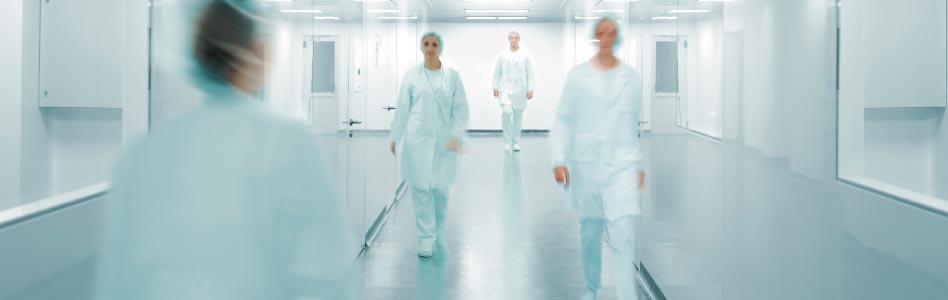
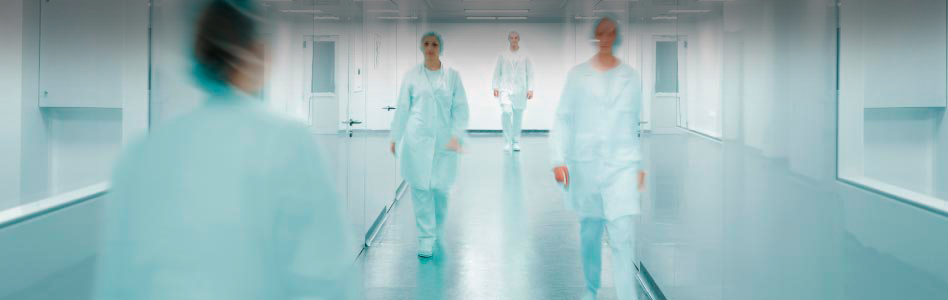
Cambios en el slider.
Se agrego logo de UFilo y cambio imagen de slider.

diff --git a/css/estilos.css b/css/estilos.css
@@ -26,6 +26,23 @@ body{
 
 
 
+/*--==================== ESTILOS ERNY EGOAVIL (INICIA)========================--*/
+
+
+
+#slider .logos-white{
+
+	width: 280px;
+	height: auto;
+	margin-bottom: 40px;
+	margin:0 auto 20px auto;
+}
+
+/*--==================== ESTILOS ERNY EGOAVIL (TERMINA)========================--*/
+
+
+
+
 /*--==================== ESTILOS CABECERA (INICIA)========================--*/
 header{
 	font-family: "Titillium-Semibold";

diff --git a/index.php b/index.php
@@ -73,8 +73,8 @@
 			<section>
 				<img src="img/slider1.jpg" alt="">
 				<div class="texto-slider">
-					<h2>U-FILO TECHNOLOGY</h2>
-					<p>Provides appropriate behavior causing minimal tissue reaction.</p>
+					<img class="logos-white" src="img/ufilo-white.png">
+					<p>U-FILO TECHNOLOGY - Provides appropriate behavior causing minimal tissue reaction.</p>
 					<!-- <a href="">Botón</a> -->
 				</div>
 			</section>
